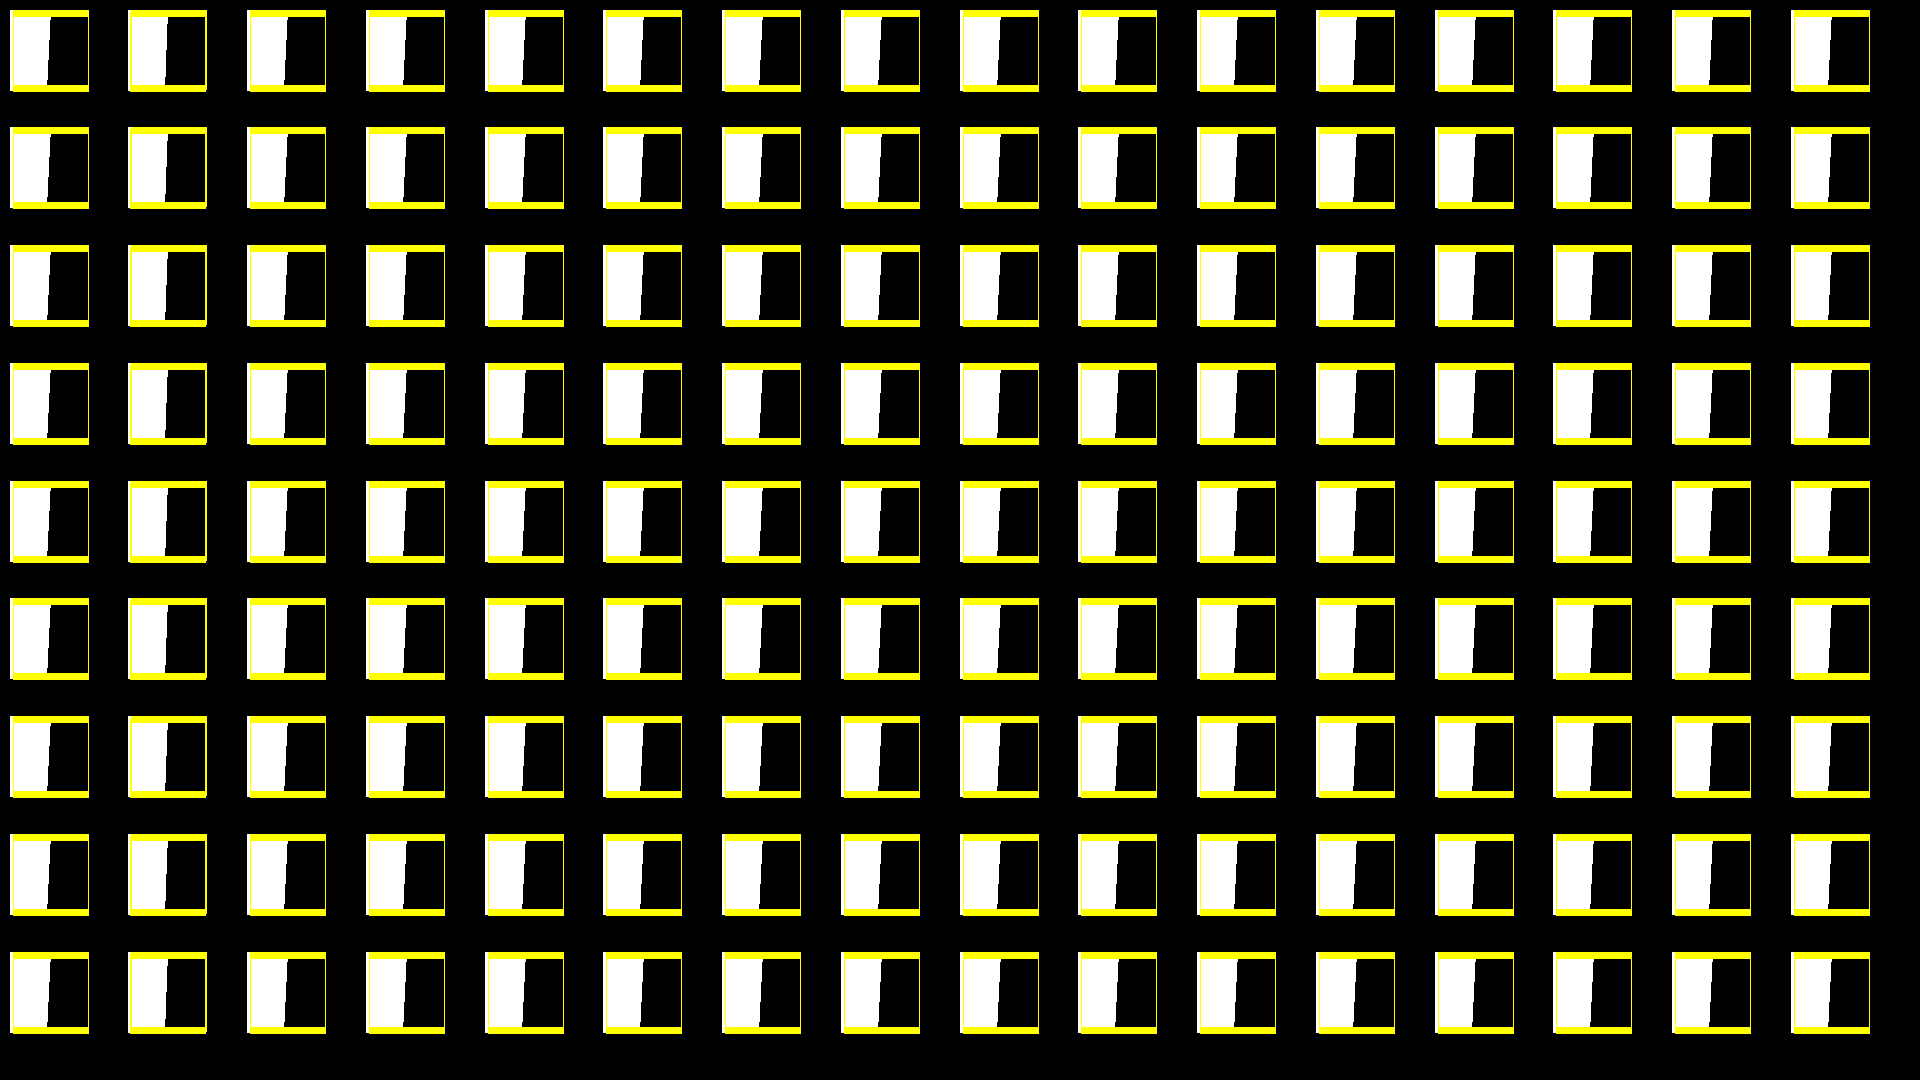
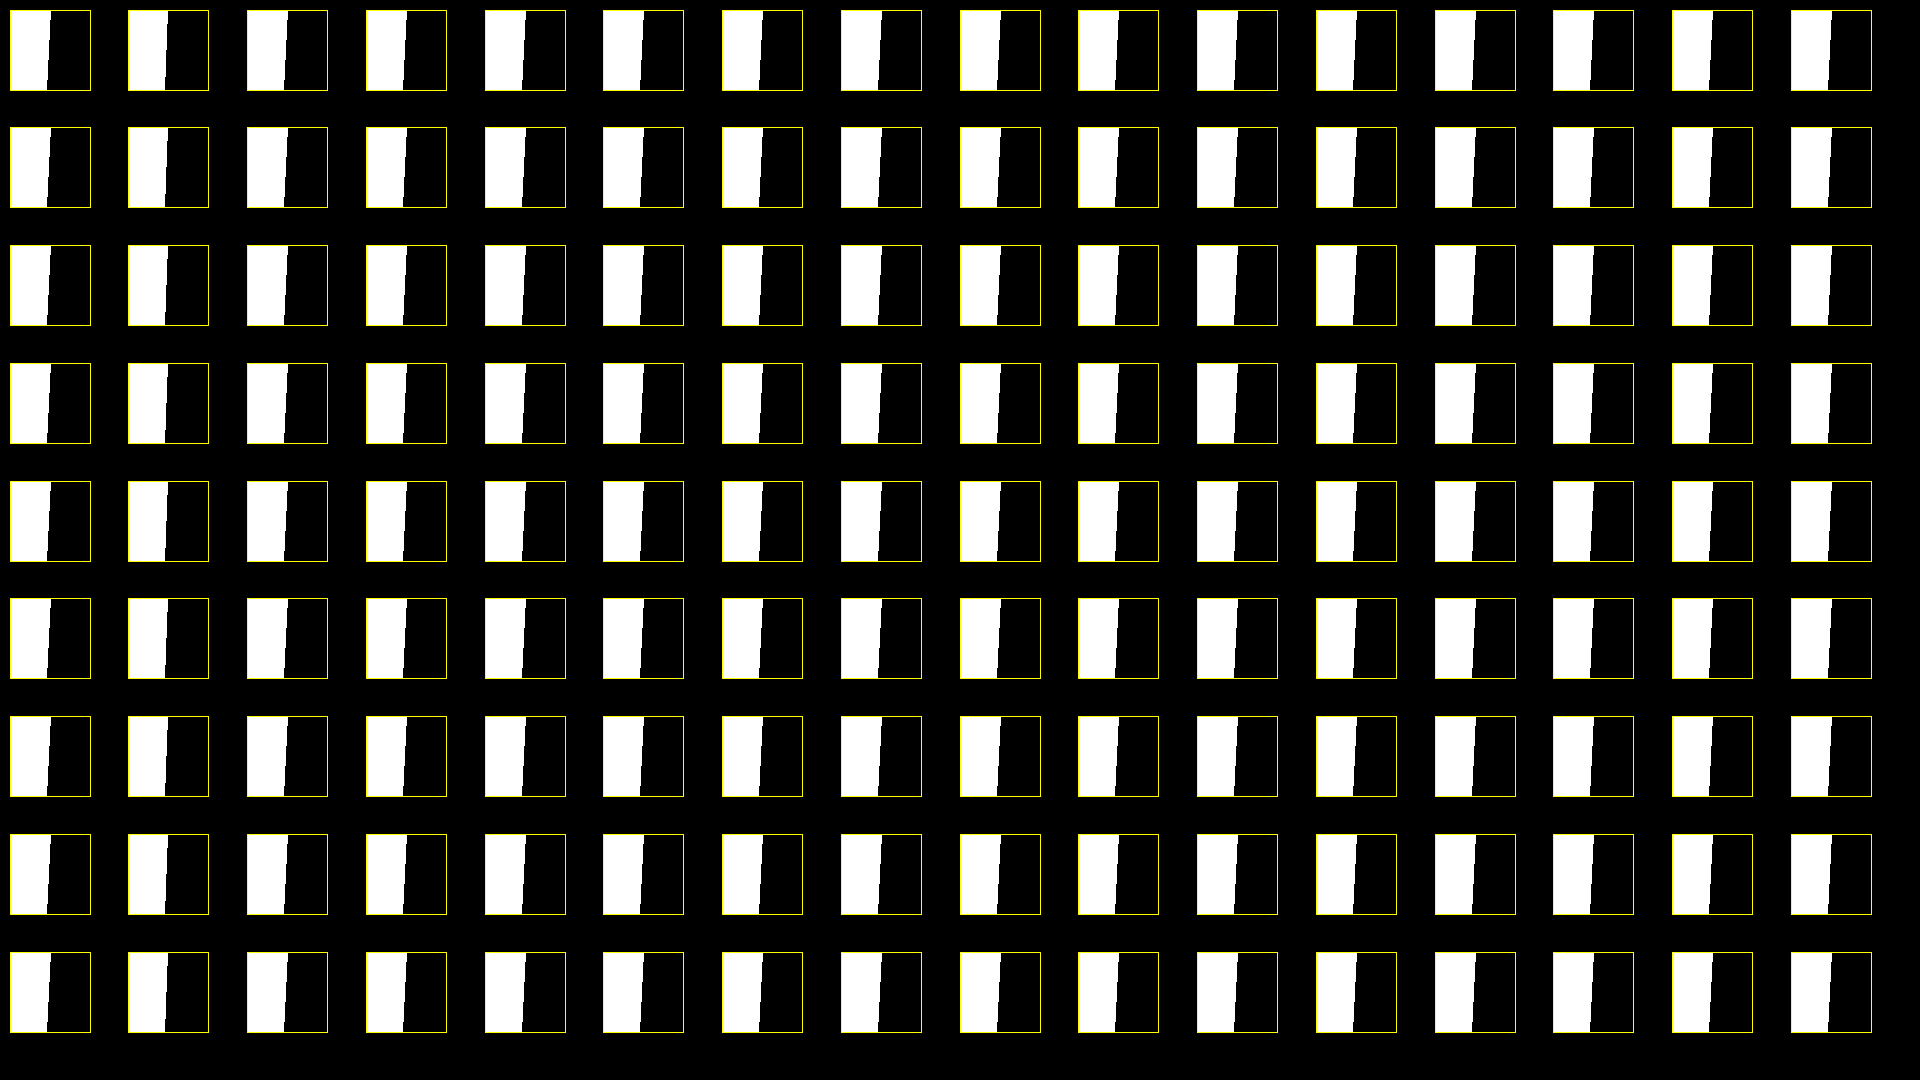
nms in template matching

diff --git a/SE_MTF_Test.py b/SE_MTF_Test.py
@@ -13,8 +13,8 @@ parameters = {
             "Edge Angle": {"value": 5, "type": "value", "options": None}, 
             "Pattern Size": {"value": 80, "type": "value", "options": None},            
             "Line Type": {"value": "line_8", "type": "list", "options": ["line_8", "line_4", "line_AA", "filled"]},
-            "Threshold": {"value": 0.5, "type": "value", "options": None},
-            "Min. Radius": {"value": 5, "type": "value", "options": None}
+            "Threshold": {"value": 0.95, "type": "value", "options": None},
+            "IoU Threshold": {"value": 0.01, "type": "value", "options": None}
             } 
 
 class SE_MTF_Test(MeshPreviewBox):
@@ -43,7 +43,7 @@ class SE_MTF_Test(MeshPreviewBox):
         return chart_im
 
     def get_se_patterns(self):
-        edge_angle, pattern_size, line_type, threshhold, min_radius = self.paras_tab.output_parsed_vals()
+        edge_angle, pattern_size, line_type, threshold, iou_thresh = self.paras_tab.output_parsed_vals()
         se_pattern_im = self.draw_se_MTF_pattern(edge_angle, pattern_size, line_type)
         self.labeled_img = self.raw_img.copy()
         stat = cv2.imwrite('se_pattern.png', se_pattern_im)
@@ -52,18 +52,67 @@ class SE_MTF_Test(MeshPreviewBox):
         res_se_pattern = cv2.matchTemplate(self.labeled_img, se_pattern, cv2.TM_CCOEFF_NORMED)
         
         
-        loc = np.where(res_se_pattern >= threshhold)
+        loc = np.where(res_se_pattern >= threshold)
+        loc_value = res_se_pattern[res_se_pattern >= threshold]
+        res_box_list = np.zeros((len(loc[0]), 3))
+        res_box_list[:, 0] = loc[1]
+        res_box_list[:, 1] = loc[0]
+        res_box_list[:, 2] = loc_value
         
-        i = 0
-        for pt in zip(*loc[::-1]):
-            cv2.rectangle(self.labeled_img, pt, (pt[0]+pattern_size, pt[1]+pattern_size), (0,255,255), 1)
+        self.pick_list = []
+        self.nms(res_box_list, iou_thresh, np.array((pattern_size, pattern_size)))
+        # self.pick_list.append(res_box_list[0])
+        # self.pick_list.append(res_box_list[10])
+        # self.pick_list.append(res_box_list[15])
+        for pt in self.pick_list:
+            cv2.rectangle(self.labeled_img, (int(pt[0]), int(pt[1])), (int(pt[0]) + pattern_size, int(pt[1]) + pattern_size), (0,255,255), 1)
+             
 
-            i += 1
+        # i = 0
+        # for pt in zip(*loc[::-1]):
+        #     cv2.rectangle(self.labeled_img, pt, (pt[0]+pattern_size, pt[1]+pattern_size), (0,255,255), 1)
+
+        #     i += 1
         cv2.imwrite('labeled.png', self.labeled_img)
-        print(i)
+       
         self.update_img(self.labeled_img)
-        self.controller.msg_box.console(f'{len(loc[0])} SE MTF patterns founded')
-  
+        # self.controller.msg_box.console(f'{len(loc[0])} SE MTF patterns founded')
+        self.controller.msg_box.console(f'{len(self.pick_list)} SE MTF patterns founded')
+
+
+    def nms(self, res_box_list, iou_thresh, pattern_size):
+        
+        if res_box_list.size == 0:
+            return 
+        else:
+            if len(self.pick_list) > 142:
+                print('')
+                pass
+            
+            res_box_list = res_box_list[np.argsort(res_box_list[:, 2])[::-1]]
+            box1 = res_box_list[0, 0:3]
+            self.pick_list.append(box1)
+            for box2 in res_box_list[1:, 0:3]:
+                iou, _, _ = self.iou_calc(box1[0:2], box2[0:2], pattern_size)
+                if iou > iou_thresh:
+                    box2[2] = 0
+            box1[2] = 0
+            print(len(self.pick_list), res_box_list[:, 0].size)
+            return self.nms(res_box_list[res_box_list[:, 2] > 0], iou_thresh, pattern_size)
+
+    def iou_calc(self, box1, box2, shape):
+        x1, y1 = box1[0], box1[1]
+        x2, y2 = box2[0], box2[1]
+        if abs(x1-x2) >= shape[0] or abs(y1-y2) >= shape[1]:
+            return -1, None, None
+        x_inter, y_inter = max(x1, x2), max(y1, y2)    
+        coord_inter = np.array((x_inter, y_inter))
+        shape_inter = np.array((shape[0] - abs(x1-x2), shape[1] - abs(y1-y2)))
+        area_inter = shape_inter[0] * shape_inter[1]
+        area_union = (shape[0] * shape[1]) * 2 - area_inter
+        iou = area_inter / area_union
+        return iou, coord_inter, shape_inter
+
     def group_locations(self, locations, min_radius):
         x = locations[:, 0]
         dist_x = x - x.T
